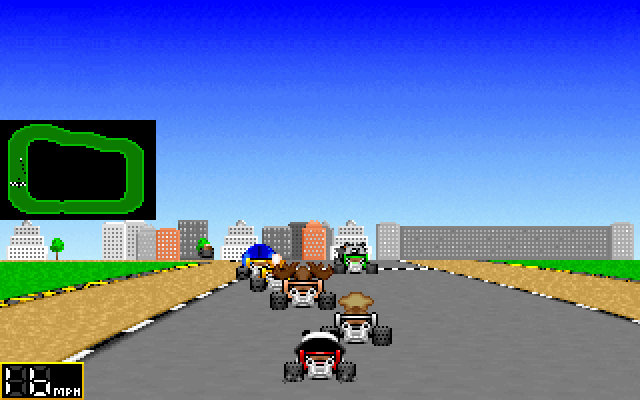
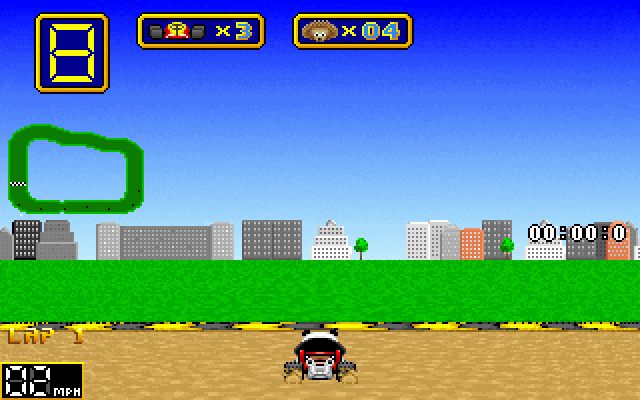
Complete the in-race HUD
Ported from the HUD pass, which corrected several of my assumptions: the
22x29 sprite at (25,12) is the POSITION indicator (1st..8th, indexed one
based into LAP.SP), the digits at (181,11) are the hedgehog ammo count,
the timer is MM:SS:T with 7 glyphs (both separators colons, from
GENEF.SP+0x35A5), and the lap counter is 8x8 text rather than a sprite.

Now drawn: minimap with kart dots, race timer at (264,112) off a 10 Hz
clock, speedometer panel with two 10x15 digits at y 183 easing by +2/-4
while racing and +4/-10 otherwise, position sprite, hedgehog ammo, lives
digit at (118,11), power-up icon at (293,178) when carrying a weapon,
wrong-way banner alternating two 80x17 frames at (120,182), lap text at
(4,164), and the static chrome (plaque and two label plates).

Finishing position is computed by comparing lap*posMax+cell progress
against the AI karts.

diff --git a/src/hud.c b/src/hud.c
@@ -1,33 +1,52 @@
-/* In-race HUD — minimap, speedometer panel, lap and position readouts.
- * Positions and sprite sources from the WW.EXE HUD pass (FUN_0002a92c and
- * friends); see docs/SPRITES_HUD.md.
+/* In-race HUD — transcription of FUN_0002a92c and friends.
+ * Sprite sources and screen positions from the HUD extraction; see the
+ * table below. All sprites are column-major: byte[col*h + row].
  */
 #include "wacky.h"
 
 #include <stdlib.h>
 #include <string.h>
 
-#define MINIMAP_W   78
-#define MINIMAP_H   50
-#define MINIMAP_X    0
-#define MINIMAP_Y   60
-#define MINIMAP_SZ  (MINIMAP_W * MINIMAP_H)      /* 0xF3C per track */
+/* ---- sprite sources ----------------------------------------------------
+ * ICONS.SP +0x0000  6 x 26x21   power-up icons (weapon id 3..8)
+ *          +0x0CCC  1 x 42x19   speedometer panel
+ *          +0x0FEA 10 x 10x15   speed digits
+ * LAP.SP   +0x0000  8 x 22x29   position sprites 1st..8th
+ *          +0x2CDC  1 x 80x17   wrong-way banner frame A
+ *          +0x322C  1 x 80x17   wrong-way banner frame B
+ *          +0x377C  1 x 38x41   position plaque
+ *          +0x3D92  1 x 65x19   label plate (lives)
+ *          +0x4265  1 x 61x19   label plate (hedgehogs)
+ *          +0x46EC 10 x 10x9    small digits
+ * GENEF.SP +0x35A5 11 x 7x9     timer glyphs '0'..'9' and ':'
+ * OFONT.SP  chunk1 61 x 8x8     in-race text font
+ * -------------------------------------------------------------------- */
+#define ICON_PICKUP(id) (h->icons + ((id) - 3) * 0x222)
+#define SPEEDO_PANEL    (h->icons + 0x0CCC)
+#define SPEED_DIGIT(d)  (h->icons + 0x0FEA + (d) * 150)
+#define PLACE_SPRITE(p) (h->lap   + ((p) - 1) * 0x27E)
+#define WRONGWAY(f)     (h->lap   + ((f) ? 0x322C : 0x2CDC))
+#define PLAQUE          (h->lap   + 0x377C)
+#define PLATE_LIVES     (h->lap   + 0x3D92)
+#define PLATE_HOGS      (h->lap   + 0x4265)
+#define SMALL_DIGIT(d)  (h->lap   + 0x46EC + (d) * 90)
+#define TIMER_GLYPH(i)  (h->genef + 0x35A5 + (i) * 63)
+#define FONT8(i)        (h->font  + (i) * 0x40)
 
-#define SPEEDO_X     0
-#define SPEEDO_Y   181
-#define SPEEDO_W    42
-#define SPEEDO_H    19
-#define ICONS_SPEEDO 0xCCC
+#define MINIMAP_X 0
+#define MINIMAP_Y 0x3C
+#define MINIMAP_W 0x4E
+#define MINIMAP_H 0x32
+#define MINIMAP_SZ (MINIMAP_W * MINIMAP_H)
 
 struct WHud {
-    const uint8_t *map;        /* this track's 78x50 minimap bitmap */
-    const uint8_t *mapx, *mapy; /* MAP.XY: world offset -> minimap pixel */
-    const uint8_t *icons;
-    uint32_t icons_len;
-    int shown_speed;           /* eased display value */
+    const uint8_t *map, *mapx, *mapy;
+    const uint8_t *icons, *lap, *genef, *font;
+    uint32_t icons_len, lap_len, genef_len, font_len;
+    int shown_speed;
+    int wrongway_phase;
 };
 
-/* cup map files, 5 tracks each in the order the game races them */
 static const struct { const char *file; int first; } CUPS[] = {
     { "BRONZEM.SP", 1 }, { "SILVERM.SP", 6 }, { "GOLDM.SP", 11 },
 };
@@ -39,6 +58,9 @@ WHud *whud_create(const WDat *dat, int tracknum) {
     const uint8_t *xy = wdat_find(dat, "MAP.XY", &len);
     if (xy && len >= 4096) { h->mapx = xy; h->mapy = xy + 2048; }
     h->icons = wdat_find(dat, "ICONS.SP", &h->icons_len);
+    h->lap   = wdat_find(dat, "LAP.SP",   &h->lap_len);
+    h->genef = wdat_find(dat, "GENEF.SP", &h->genef_len);
+    h->font  = wdat_find(dat, "OFONT.SP", &h->font_len);  /* chunk 1 = 8x8 */
 
     for (size_t c = 0; c < sizeof CUPS / sizeof *CUPS; c++) {
         int idx = tracknum - CUPS[c].first;
@@ -53,74 +75,175 @@ WHud *whud_create(const WDat *dat, int tracknum) {
 
 void whud_free(WHud *h) { free(h); }
 
-static void put(uint32_t *fb, const uint8_t dac[768], int x, int y, uint8_t idx) {
+static uint32_t *FB;
+static const uint8_t *DAC;
+
+static void put(int x, int y, uint8_t idx) {
     if (x < 0 || x >= WW_SCREEN_W || y < 0 || y >= WW_SCREEN_H) return;
-    fb[(size_t)y * WW_SCREEN_W + x] =
-        0xFF000000u | (uint32_t)dac[idx * 3 + 2] << 16 |
-        (uint32_t)dac[idx * 3 + 1] << 8 | dac[idx * 3];
+    FB[(size_t)y * WW_SCREEN_W + x] =
+        0xFF000000u | (uint32_t)DAC[idx * 3 + 2] << 16 |
+        (uint32_t)DAC[idx * 3 + 1] << 8 | DAC[idx * 3];
 }
 
-/* opaque blit of a column-major sprite */
-static void blit(uint32_t *fb, const uint8_t dac[768], const uint8_t *src,
-                 int w, int h, int x0, int y0, bool keyed) {
+/* column-major blit; keyed skips index 0 */
+static void blit(const uint8_t *src, int x, int y, int w, int hgt, bool keyed) {
     if (!src) return;
-    for (int y = 0; y < h; y++)
-        for (int x = 0; x < w; x++) {
-            uint8_t px = src[x * h + y];
-            if (keyed && px == WW_SP_TRANSPARENT) continue;
-            put(fb, dac, x0 + x, y0 + y, px);
+    for (int c = 0; c < w; c++)
+        for (int r = 0; r < hgt; r++) {
+            uint8_t p = src[c * hgt + r];
+            if (keyed && p == 0) continue;
+            put(x + c, y + r, p);
         }
 }
 
-void whud_draw(uint32_t *fb, WHud *h, const WTrack *t, const WPhys *p,
-               const WAi *ai) {
-    if (!h) return;
+/* the original always prints two digits, leading zero included */
+static void dec2(int v, char out[3]) {
+    if (v < 0) v = 0;
+    if (v > 99) v = 99;
+    out[0] = (char)('0' + v / 10);
+    out[1] = (char)('0' + v % 10);
+    out[2] = 0;
+}
 
-    /* --- minimap (FUN_0002a4ac): 78x50 at (0,60), row-major bitmap --- */
+/* 8x8 in-race font mapping (FUN_000148f4); -1 = advance without drawing */
+static int font8_index(unsigned char c) {
+    if (c >= 'A' && c <= 'Z') return c - 0x41;
+    if (c >= '0' && c <= '9') return c - 0x16;
+    switch (c) {
+    case '!': return 0x24; case '#': return 0x26; case '&': return 0x2A;
+    case '\'': return 0x39; case '(': return 0x2C; case ')': return 0x2D;
+    case ',': return 0x36; case '-': return 0x37;
+    case '.': case ':': return 0x35;
+    case '?': return 0x34; case '@': return 0x38;
+    default: return -1;
+    }
+}
+
+static void hud_text(const WHud *h, const char *s, int x, int y) {
+    if (!h->font) return;
+    for (; *s; s++, x += 8) {
+        int g = font8_index((unsigned char)*s);
+        if (g >= 0) blit(FONT8(g), x, y, 8, 8, true);
+    }
+}
+
+/* MM:SS:T from the 10 Hz race counter (FUN_0002a618) */
+static void timer_text(int32_t ticks, char out[8]) {
+    if (ticks < 0) ticks = 0;
+    if (ticks > 36000) ticks = 0;
+    int tenths = (int)(ticks % 10);
+    int32_t secs = ticks / 10;
+    char d[3];
+    dec2((int)(secs / 60), d); out[0] = d[0]; out[1] = d[1];
+    out[2] = ':';
+    dec2((int)(secs % 60), d); out[3] = d[0]; out[4] = d[1];
+    out[5] = ':';
+    out[6] = (char)('0' + tenths);
+    out[7] = 0;
+}
+
+/* static chrome, drawn every frame here (the original blits it once per page) */
+void whud_draw_static(uint32_t *fb, WHud *h, const WTrack *t) {
+    if (!h) return;
+    FB = fb; DAC = t->dac;
+    if (h->lap && h->lap_len > 0x4265 + 61 * 19) {
+        blit(PLAQUE,      0x11, 6, 0x26, 0x29, true);   /* (17,6)  38x41 */
+        blit(PLATE_LIVES, 0x44, 6, 0x41, 0x13, true);   /* (68,6)  65x19 */
+        blit(PLATE_HOGS,  0x92, 6, 0x3D, 0x13, true);   /* (146,6) 61x19 */
+    }
+}
+
+void whud_draw(uint32_t *fb, WHud *h, const WTrack *t, const WPhys *p,
+               const WAi *ai, const WHudState *st) {
+    if (!h) return;
+    FB = fb; DAC = t->dac;
+
+    /* ---- minimap: track bitmap keyed, then 1x1 kart dots via MAP.XY ---- */
     if (h->map) {
-        for (int y = 0; y < MINIMAP_H; y++)
-            for (int x = 0; x < MINIMAP_W; x++) {
-                uint8_t px = h->map[x * MINIMAP_H + y];   /* column-major */
-                if (px == WW_SP_TRANSPARENT) continue;    /* track floats */
-                put(fb, t->dac, MINIMAP_X + x, MINIMAP_Y + y, px);
-            }
-        /* kart dots: world offset through MAP.XY, own kart last so it wins */
+        blit(h->map, MINIMAP_X, MINIMAP_Y, MINIMAP_W, MINIMAP_H, true);
         if (h->mapx && h->mapy) {
             for (int k = 7; k >= 0; k--) {
                 int wx, wy, compass;
-                uint8_t colour;
-                if (k == 0) {
-                    wx = p->worldx;
-                    wy = p->worldy;
-                    colour = 0xFF;
-                } else {
+                uint8_t col;
+                if (k == 0) { wx = p->worldx; wy = p->worldy; col = 0xFF; }
+                else {
                     if (!ai) continue;
                     wai_kart_state(ai, k, &wx, &wy, &compass);
-                    colour = 0x5A;
+                    col = 0x5A;
                 }
-                wx -= WW_MAP_OFF;
-                wy -= WW_MAP_OFF;
-                if (wx < 0) wx = 0;
-                if (wx > 0x7FF) wx = 0x7FF;
-                if (wy < 0) wy = 0;
-                if (wy > 0x7FF) wy = 0x7FF;
-                put(fb, t->dac, MINIMAP_X + h->mapx[wx],
-                    MINIMAP_Y + h->mapy[wy], colour);
+                wx -= WW_MAP_OFF; wy -= WW_MAP_OFF;
+                if (wx < 0) wx = 0; if (wx > 0x7FF) wx = 0x7FF;
+                if (wy < 0) wy = 0; if (wy > 0x7FF) wy = 0x7FF;
+                put(h->mapx[wx], h->mapy[wy] + MINIMAP_Y, col);
             }
         }
     }
 
-    /* --- speedometer panel (ICONS.SP + 0xCCC) at (0,181) --- */
-    if (h->icons && h->icons_len >= ICONS_SPEEDO + SPEEDO_W * SPEEDO_H) {
-        /* displayed value eases toward 2 * speed: +2/+4 up, -4/-10 down */
+    /* ---- race timer: 7 glyphs of 7x9 at (264,112) ---- */
+    if (h->genef) {
+        char buf[8];
+        timer_text(st->race_ticks, buf);
+        int x = 0x108;
+        for (int i = 0; i < 7; i++, x += 7)
+            blit(TIMER_GLYPH((unsigned char)buf[i] - '0'), x, 0x70, 7, 9, true);
+    }
+
+    /* ---- speedometer: panel + two 10x15 digits at x 3 and 15, y 183 ---- */
+    if (h->icons) {
         int target = p->speed * 2;
-        if (h->shown_speed < target)
-            h->shown_speed += (target - h->shown_speed > 8) ? 4 : 2;
-        else if (h->shown_speed > target)
-            h->shown_speed -= (h->shown_speed - target > 20) ? 10 : 4;
-        if (h->shown_speed < 0) h->shown_speed = 0;
-        blit(fb, t->dac, h->icons + ICONS_SPEEDO, SPEEDO_W, SPEEDO_H,
-             SPEEDO_X, SPEEDO_Y, false);
+        int up = st->racing ? 2 : 4, down = st->racing ? 4 : 10;
+        if (h->shown_speed < target) {
+            h->shown_speed += up;
+            if (h->shown_speed > target) h->shown_speed = target;
+        } else if (h->shown_speed > target) {
+            h->shown_speed -= down;
+            if (h->shown_speed < target) h->shown_speed = target;
+        }
+        int v = st->racing ? h->shown_speed : 0;
+        char d[3]; dec2(v, d);
+        blit(SPEEDO_PANEL, 0, 0xB5, 0x2A, 0x13, false);
+        blit(SPEED_DIGIT(d[0] - '0'),  3, 0xB7, 10, 15, false);
+        blit(SPEED_DIGIT(d[1] - '0'), 15, 0xB7, 10, 15, false);
+    }
+
+    if (h->lap) {
+        /* ---- position sprite 22x29 at (25,12) ---- */
+        int place = st->place < 1 ? 1 : (st->place > 8 ? 8 : st->place);
+        blit(PLACE_SPRITE(place), 0x19, 0x0C, 0x16, 0x1D, false);
+
+        /* ---- hedgehog ammo: two 10x9 digits at (181,11) ---- */
+        char d[3]; dec2(p->ammo, d);
+        blit(SMALL_DIGIT(d[0] - '0'), 0xB5,      0x0B, 10, 9, false);
+        blit(SMALL_DIGIT(d[1] - '0'), 0xB5 + 10, 0x0B, 10, 9, false);
+
+        /* ---- lives: single 10x9 digit at (118,11), indexed by value ---- */
+        int lives = st->lives < 0 ? 0 : (st->lives > 9 ? 9 : st->lives);
+        blit(SMALL_DIGIT(lives), 0x76, 0x0B, 10, 9, false);
+
+        /* ---- wrong-way banner 80x17 at (120,182), alternating frames ---- */
+        if (st->wrong_way) {
+            h->wrongway_phase = !h->wrongway_phase;
+            blit(WRONGWAY(h->wrongway_phase), 0x78, 0xB6, 0x50, 0x11, true);
+        }
+    }
+
+    /* ---- power-up icon 26x21 at (293,178) ---- */
+    if (h->icons && p->weapon_id >= 3 && p->weapon_id <= 8)
+        blit(ICON_PICKUP(p->weapon_id), 0x125, 0xB2, 0x1A, 0x15, true);
+
+    /* ---- lap banner: 8x8 text at (4,164) ---- */
+    {
+        char line[16];
+        if (st->lap < st->total_laps) {
+            int n = 0;
+            line[n++] = 'L'; line[n++] = 'A'; line[n++] = 'P'; line[n++] = ' ';
+            if (st->lap >= 10) line[n++] = (char)('0' + st->lap / 10);
+            line[n++] = (char)('0' + st->lap % 10);
+            line[n] = 0;
+        } else {
+            memcpy(line, st->finished ? "FINISHED!" : "LAST LAP!", 10);
+        }
+        hud_text(h, line, 4, 0xA4);
     }
 }
 

diff --git a/src/main.c b/src/main.c
@@ -253,7 +253,9 @@ int main(int argc, char **argv) {
     int tick_no = 0;
     WPhys player;
     int cyc_cnt60 = 0, cyc_cnt50 = 0, cyc_ph_a = 0, cyc_ph_b = 0;
-    int lap = 1, prev_prog = 0, wrong_way = 0;
+    int lap = 1, prev_prog = 0, wrong_way = 0, place = 1;
+    int32_t race_ticks10 = 0;   /* 10 Hz race clock */
+    double clock_ms = 0;
     int kart_id = 0;
     bool map_view = false;
     bool need_load = true, running = true;
@@ -356,6 +358,15 @@ int main(int argc, char **argv) {
             WCollide col = { wscene_hit_object, wai_hit_kart, scene, ai };
             wphys_tick(&player, &track, &TB, &in, 1, &col);
             wscene_resolve_pickups(scene, &player);
+            /* 10 Hz race clock and finishing position */
+            clock_ms += TICK_MS;
+            while (clock_ms >= 100.0) { clock_ms -= 100.0; race_ticks10++; }
+            if (ai) {
+                int32_t mine = (int32_t)(lap - 1) * track.pos_max + prev_prog;
+                place = 1;
+                for (int k = 1; k < 8; k++)
+                    if (wai_progress_of(ai, k) > mine) place++;
+            }
             /* ramming (FUN_00022bf4): at full throttle, not skidding and not
              * airborne, hitting an opponent whose camera-relative octant is
              * 0/1/7 (you caught it from behind) destroys it — and takes you
@@ -531,7 +542,16 @@ int main(int argc, char **argv) {
                                     dx0, dy0 + 0x10);
                 }
             }
-            if (!map_view) whud_draw(fb, hud, &track, &player, ai);
+            if (!map_view) {
+                WHudState hs = {
+                    .race_ticks = phase == RACING ? race_ticks10 : 0,
+                    .lap = lap, .total_laps = 3, .place = place,
+                    .lives = 3, .wrong_way = wrong_way,
+                    .finished = 0, .racing = phase == RACING,
+                };
+                whud_draw_static(fb, hud, &track);
+                whud_draw(fb, hud, &track, &player, ai, &hs);
+            }
             if (dump_path) {
                 FILE *f = fopen(dump_path, "wb");
                 if (f) {

diff --git a/src/wacky.h b/src/wacky.h
@@ -211,6 +211,7 @@ void wai_tick(WAi *ai, const WTables *tb, int32_t player_progress, int player_ra
 void wai_progress(WAi *ai, const WTrack *t);
 void wai_kart_state(const WAi *ai, int i, int *x, int *y, int *compass);
 int  wai_hit_kart(void *ctx, int x, int y, int *ox, int *oy);
+int32_t wai_progress_of(const WAi *ai, int i);
 /* projectile probes: kart within Manhattan 0x12, and the hit reaction
  * (spin_state 1 = spin 0x21 ticks, 2 = squash 0x32 ticks) */
 int  wai_kart_at(void *ctx, int x, int y);
@@ -251,10 +252,19 @@ void    wscene_draw(uint32_t *fb, WScene *s, const WTrack *t, const WTables *tb,
 /* ---- In-race HUD (src/hud.c) ---- */
 
 typedef struct WHud WHud;
+
+/* race state the HUD reads that does not live in WPhys */
+typedef struct {
+    int32_t race_ticks;   /* 10 Hz counter                       */
+    int     lap, total_laps, place, lives;
+    int     wrong_way, finished, racing;
+} WHudState;
+
 WHud *whud_create(const WDat *dat, int tracknum);
 void  whud_free(WHud *h);
+void  whud_draw_static(uint32_t *fb, WHud *h, const WTrack *t);
 void  whud_draw(uint32_t *fb, WHud *h, const WTrack *t, const WPhys *p,
-                const WAi *ai);
+                const WAi *ai, const WHudState *st);
 int   whud_speed_shown(const WHud *h);
 
 /* ---- Sprites (.SP raw transposed frames) ---- */

diff --git a/src/ai.c b/src/ai.c
@@ -344,6 +344,10 @@ int wai_kart_render(WAi *ai, int i, int *x, int *y, int *compass, int *frame) {
     return 0;
 }
 
+int32_t wai_progress_of(const WAi *ai, int i) {
+    return (ai && i >= 1 && i <= 7) ? ai->k[i].progress : 0;
+}
+
 void wai_kart_state(const WAi *ai, int i, int *x, int *y, int *compass) {
     *x = ai->k[i].x;
     *y = ai->k[i].y;
